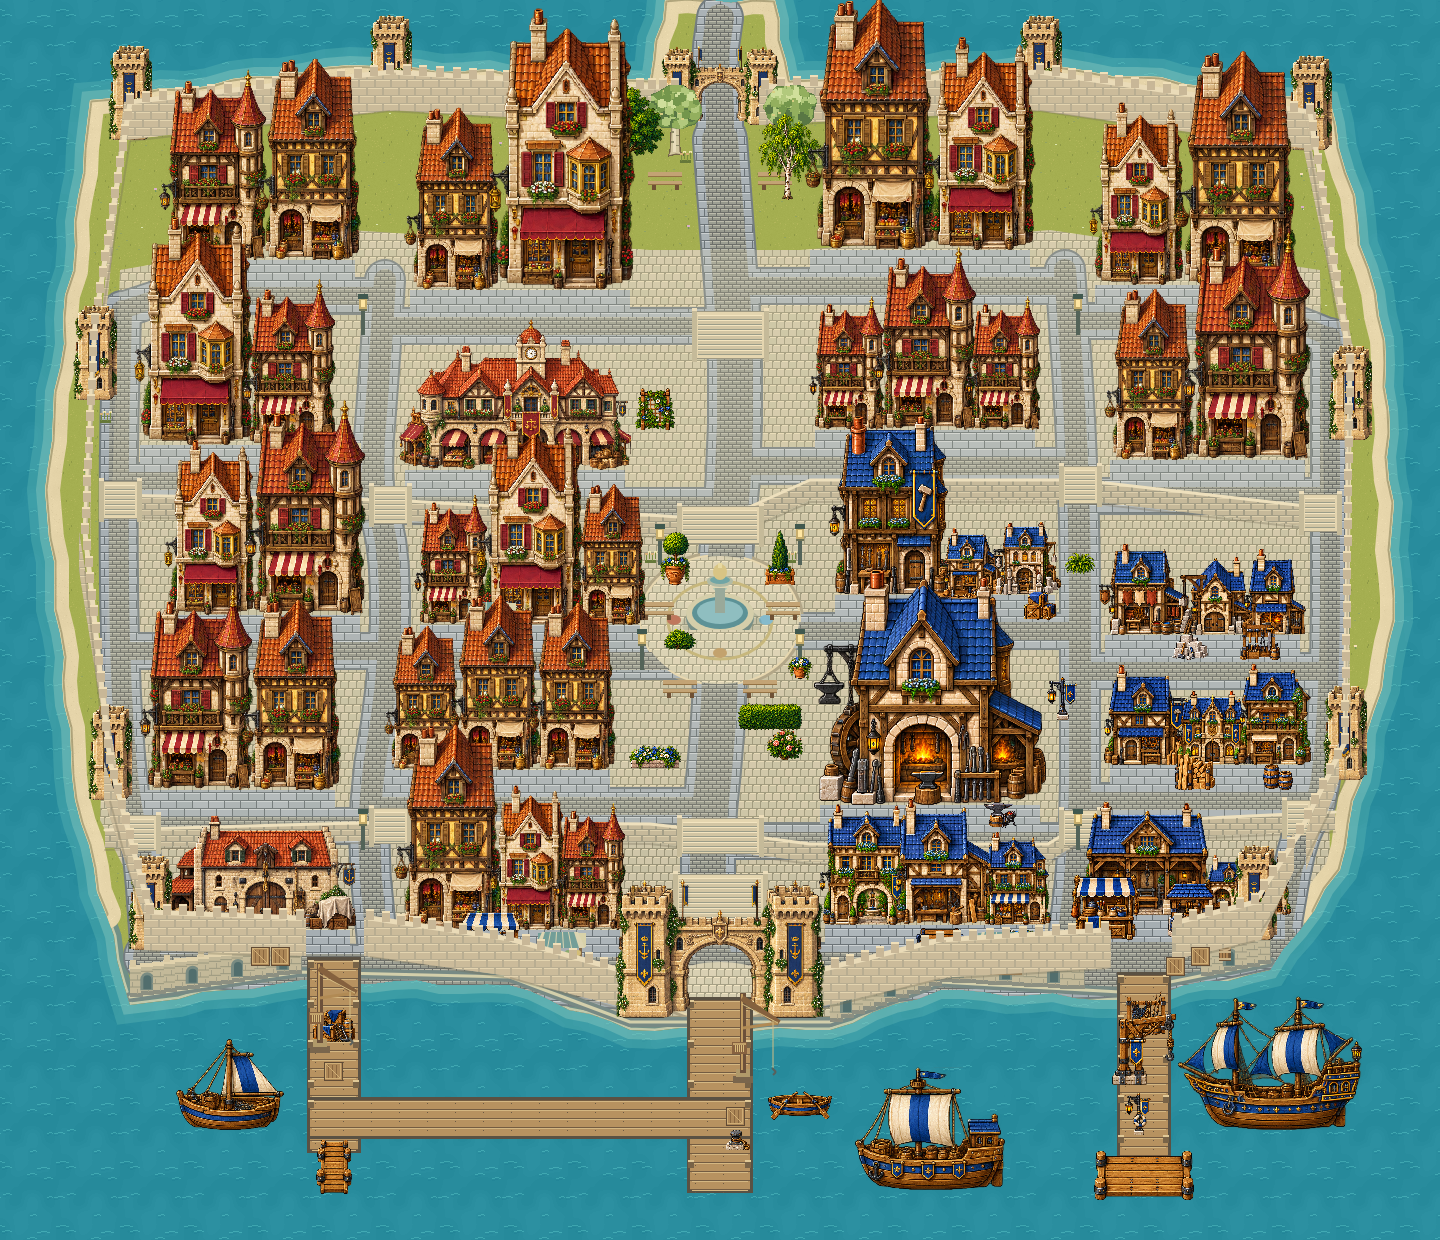
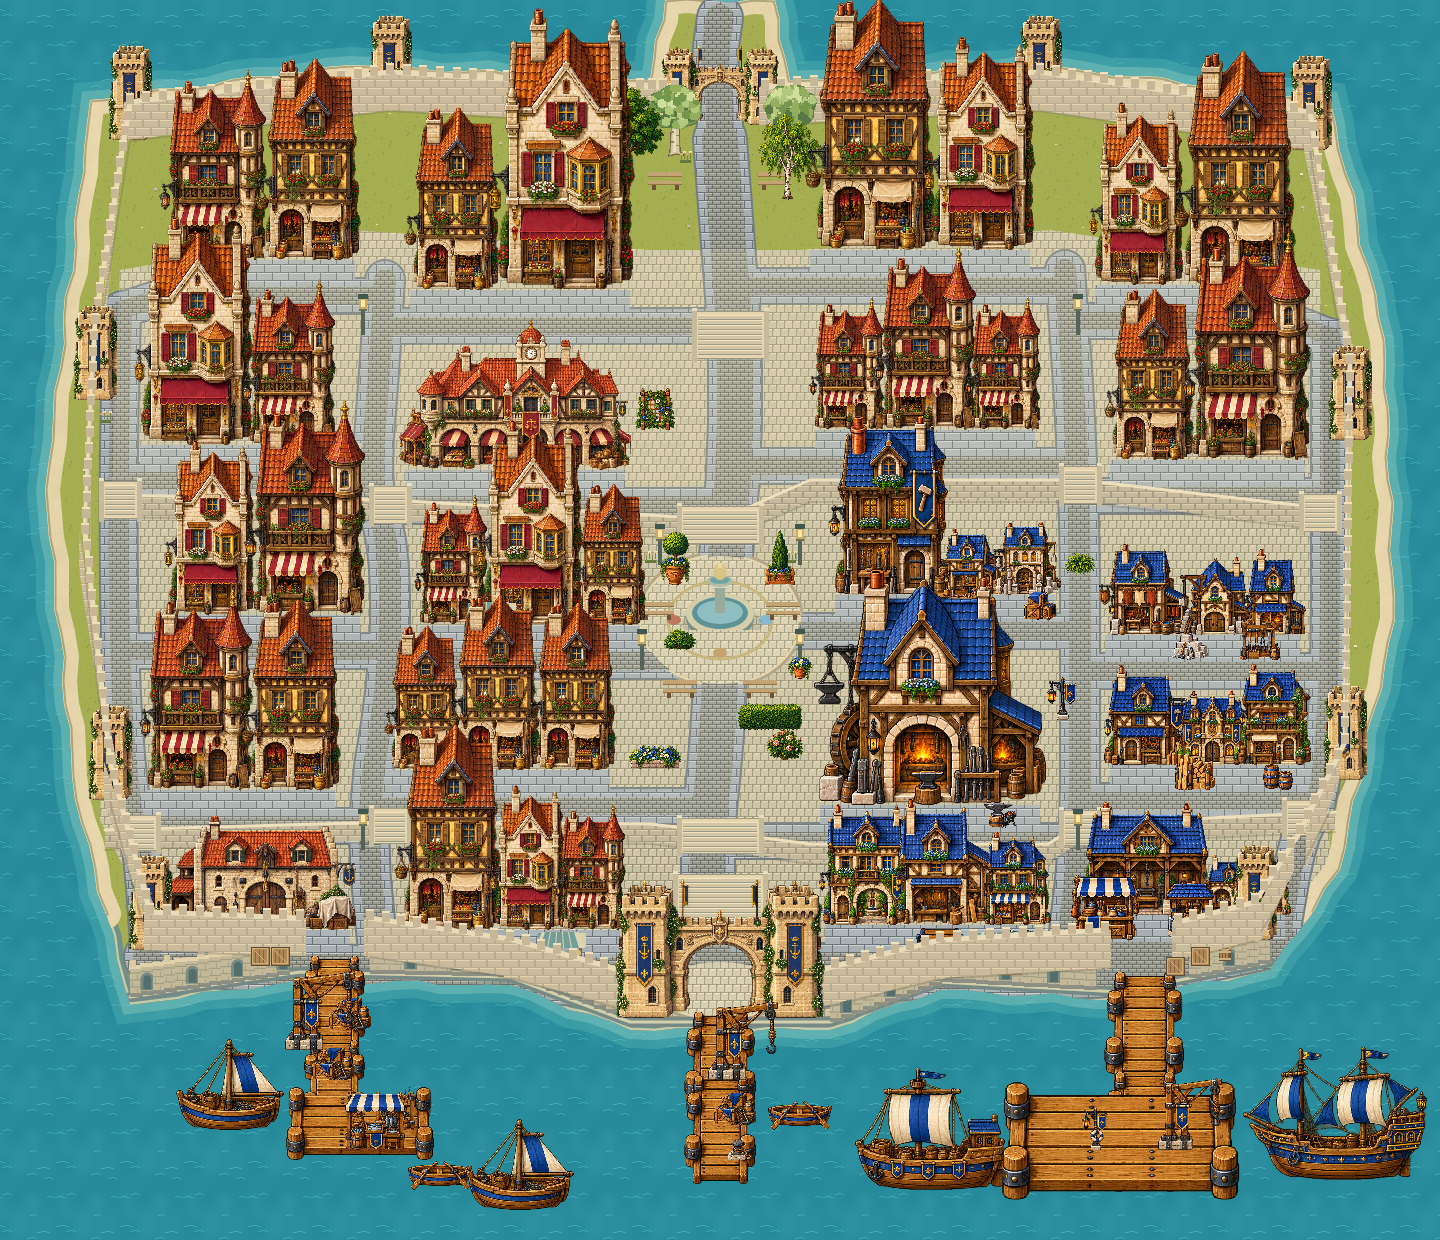
Rebuild harbor with detailed pier assets, six boats and a waterfront-only editor preset

Changed region(s): [[0.1875, 0.7661, 0.5938, 0.9806], [0.6875, 0.7661, 1.0, 0.9806], [0.3125, 0.7355, 0.375, 0.7661]]

diff --git a/src/ui/map-editor.js b/src/ui/map-editor.js
@@ -1,5 +1,6 @@
 import {
   captureMap,
+  rebuildPort,
   BUILDING_SERVICES,
   setBuildingService,
   resizeBuilding,
@@ -28,7 +29,7 @@ export function openMapEditor(game, onClose = () => {}) {
   dialog.innerHTML = `<header><strong>Éditeur · Comptoir de l’Exil</strong><button data-edit="close">Fermer</button></header>
   <div class="map-editor-tools"><button data-mode="select">Sélection</button><button data-mode="place">Placer</button><button data-mode="resize">Taille</button><button data-mode="road">Route</button><button data-mode="sidewalk">Trottoir</button><button data-mode="pan">Déplacer la vue</button><button data-edit="undo">Annuler</button><button data-edit="redo">Rétablir</button><label><input type="checkbox" data-grid checked> Grille 4 px</label><label><input type="checkbox" data-collision> Collisions</label><button data-edit="fit">Vue entière</button></div>
   <div class="map-editor-body"><aside><label>Palette<select data-palette></select></label><label>Éléments<select data-elements size="9"></select></label><div class="map-editor-fields"><label>X <input data-x type="number" step="1"></label><label>Y <input data-y type="number" step="1"></label><label>Largeur <input data-width type="number" min="4" max="80"></label></div><label>Service<select data-service><option value="">Aucun</option></select></label><p>Un emplacement par service. Glissez les coins bleus pour régler la taille.</p><button data-edit="duplicate">Dupliquer</button><button data-edit="delete">Supprimer</button><button data-edit="point-add">Ajouter un point</button><button data-edit="point-delete">Retirer le point</button><button data-edit="finish">Terminer le tracé</button><p>Glissez un objet ou un point. Molette : zoom. Outil Vue : panoramique. Les portes, tours et la fontaine sont verrouillées.</p><p>En mode Route ou Trottoir, cliquez pour tracer puis « Terminer ». Sélectionnez un tracé dans la liste pour le modifier.</p></aside><canvas class="map-editor-map" tabindex="0" aria-label="Carte éditable du Comptoir"></canvas><aside class="map-editor-palette" aria-label="Palette de décors"><strong>Décors à placer</strong><p>Glissez pour placer une fois. Cliquez pour placer plusieurs fois ; recliquez pour désélectionner.</p><label>Catégorie<select data-palette-category><option value="all">Tout</option><option value="houses">Bâtiments</option><option value="nature">Végétation</option><option value="props">Objets</option><option value="blue-props">Décors du quartier bleu</option><option value="harbor">Port et bateaux</option></select></label><div class="map-editor-tiles"></div></aside></div>
-  <footer><button data-edit="save">Appliquer et sauvegarder</button><button data-edit="export">Exporter JSON</button><label class="map-editor-import">Importer JSON<input data-import type="file" accept=".json,application/json"></label><button data-edit="reset">Carte d’origine</button><span role="status">Modifications locales, indépendantes de la sauvegarde du personnage.</span></footer>`;
+  <footer><button data-edit="save">Appliquer et sauvegarder</button><button data-edit="export">Exporter JSON</button><label class="map-editor-import">Importer JSON<input data-import type="file" accept=".json,application/json"></label><button data-edit="port">Nouveau port</button><button data-edit="reset">Carte d’origine</button><span role="status">Modifications locales, indépendantes de la sauvegarde du personnage.</span></footer>`;
   document.body.append(dialog);
   dialog.showModal();
   const $ = (s) => dialog.querySelector(s),
@@ -716,6 +717,15 @@ export function openMapEditor(game, onClose = () => {}) {
           item.points.splice(pointIndex, 1);
           pointIndex = Math.max(0, pointIndex - 1);
         });
+      }
+      if (action === "port") {
+        change(() => {
+          doc = rebuildPort(doc);
+          selected = null;
+        });
+        status(
+          "Nouveau port en brouillon. La ville est conservée ; appliquez pour sauvegarder.",
+        );
       }
       if (action === "reset")
         change(() => {

diff --git a/src/dev/map-editor-model.js b/src/dev/map-editor-model.js
@@ -4,6 +4,12 @@ import { BLUE_PROPS } from "../data/blue-props.js";
 import { ARTISAN_BUILDINGS } from "../data/artisan-buildings.js";
 import * as world from "../world/exile-map.js";
 const copy = (value) => structuredClone(value);
+const legacyPortDocks = [
+  { x: 690, y: 1000, w: 60, h: 190, legacy: true },
+  { x: 310, y: 960, w: 48, h: 190, legacy: true },
+  { x: 1120, y: 975, w: 48, h: 185, legacy: true },
+  { x: 310, y: 1100, w: 440, h: 36, legacy: true },
+];
 const originalDocks = copy(world.DOCKS.filter((d) => !d.editor));
 const originalProps = copy(world.PROPS).map((p) =>
   p.kind === "exile-house"
@@ -98,6 +104,8 @@ export let mapRevision = 0;
 export function captureMap() {
   return {
     schema: 1,
+    portLayout: 2,
+    legacyDocks: world.DOCKS.some((d) => d.legacy === true),
     zone: "exile",
     objects: world.PROPS.map((p) => ({
       id: p.id,
@@ -113,6 +121,29 @@ export function captureMap() {
   };
 }
 export const defaultMap = captureMap();
+// Replace just the waterfront, so a saved custom city does not need a full reset.
+export function rebuildPort(doc) {
+  const isPort = (item) => {
+    const p = templates.get(item.template);
+    return (
+      item.id.startsWith("comptoir-port-") ||
+      (item.y >= 950 && p?.collection === "harbor")
+    );
+  };
+  const kept = copy(doc.objects.filter((p) => !isPort(p))),
+    ids = new Set(kept.map((p) => p.id));
+  const replacements = copy(defaultMap.objects.filter(isPort));
+  for (const item of replacements) {
+    if (ids.has(item.id)) item.id = `comptoir-port-preset-${item.id}`;
+    ids.add(item.id);
+  }
+  return {
+    ...copy(doc),
+    portLayout: 2,
+    legacyDocks: false,
+    objects: [...kept, ...replacements],
+  };
+}
 // A first click is a provisional anchor, not a usable road. Never persist it.
 export function finishMapTraces(doc) {
   const completed = copy(doc);
@@ -208,9 +239,13 @@ export function validateDocument(doc) {
   }
   return doc;
 }
-function docksFor(props) {
+function docksFor(props, doc) {
+  const legacy =
+    doc.legacyDocks === true ||
+    (doc.portLayout === undefined &&
+      !props.some((p) => p.id === "comptoir-port-arrival-0"));
   return [
-    ...copy(originalDocks),
+    ...copy(legacy ? legacyPortDocks : originalDocks),
     ...props
       .filter((p) => p.walkSurface)
       .map((p) => ({
@@ -253,7 +288,7 @@ export function previewMap(doc) {
   return {
     ...world,
     PROPS: props,
-    DOCKS: docksFor(props),
+    DOCKS: docksFor(props, doc),
     BUILDINGS: props.filter((p) => p.kind === "exile-house"),
     ROADS: doc.roads,
     SIDEWALKS: doc.sidewalks,

diff --git a/src/world/exile-map.js b/src/world/exile-map.js
@@ -2,6 +2,7 @@ import {
   cityAsset,
   dressArtisanDistrict,
   comptoirDecor,
+  portWalkways,
 } from "./comptoir-dressing.js";
 // Authored compact blocks. Building dimensions remain at character scale;
 // density comes from plot placement and street widths, never sprite scaling.
@@ -63,17 +64,14 @@ export const LAND = shore.flatMap((a, i) => {
     ];
   });
 });
-export const DOCKS = [
-  { x: 690, y: 1000, w: 60, h: 190 },
-  { x: 310, y: 960, w: 48, h: 190 },
-  { x: 1120, y: 975, w: 48, h: 185 },
-  { x: 310, y: 1100, w: 440, h: 36 },
-];
+export const DOCKS = [];
 export const SHIPS = [
-  cityAsset("harbor-rowboat", 800, 1120, "comptoir-barque"),
+  cityAsset("harbor-rowboat", 440, 1190, "comptoir-barque"),
   cityAsset("harbor-fishing-boat", 230, 1130, "comptoir-voilier"),
   cityAsset("harbor-merchant-cog", 930, 1190, "comptoir-cogue"),
-  cityAsset("harbor-caravel", 1270, 1130, "comptoir-caravelle"),
+  cityAsset("harbor-caravel", 1335, 1180, "comptoir-caravelle"),
+  cityAsset("harbor-fishing-boat", 520, 1210, "comptoir-voilier-cotier"),
+  cityAsset("harbor-rowboat", 800, 1130, "comptoir-barque-arrivee"),
 ];
 export const QUAY_EDGE = [
   [130, 997],
@@ -550,6 +548,24 @@ for (const [x, y] of [
     onDock: true,
     footprint: { type: "box", left: -9, right: 9, top: -16, bottom: 0 },
   });
+for (const p of STREET_PROPS) {
+  if (p.id.startsWith("grue-"))
+    Object.assign(p, {
+      kind: "exile-prop",
+      asset: "harbor-crane",
+      w: 70,
+      h: 79,
+      collection: "harbor",
+    });
+  if (p.id.startsWith("cargaison-"))
+    Object.assign(p, {
+      kind: "exile-prop",
+      asset: "harbor-cargo",
+      w: 42,
+      h: 32,
+      collection: "harbor",
+    });
+}
 export const RAMPARTS = [
   [
     [130, 140],
@@ -753,6 +769,7 @@ export const PROPS = [
   ...STREET_PROPS,
   ...trees,
   ...comptoirDecor(),
+  ...portWalkways(),
   ...SHIPS,
 ];
 for (const p of PROPS.filter((p) => p.walkSurface)) {
@@ -837,8 +854,10 @@ export function validateExileMap() {
       );
   for (const p of PROPS.filter((p) => p.walkSurface))
     if (
-      SOLIDS.some((other) =>
-        footprintsOverlap({ ...p, footprint: p.walkSurface }, other),
+      SOLIDS.some(
+        (other) =>
+          !other.onDock &&
+          footprintsOverlap({ ...p, footprint: p.walkSurface }, other),
       )
     )
       errors.push(`${p.id}: ponton obstrué`);

diff --git a/src/world/comptoir-dressing.js b/src/world/comptoir-dressing.js
@@ -52,18 +52,53 @@ export function comptoirDecor() {
     ["greenery-flowerpot", 800, 680],
     ["greenery-fern", 1080, 575],
     ["greenery-grasses", 748, 85],
-    ["harbor-pier-vertical", 334, 1194],
-    ["harbor-pier-horizontal", 1144, 1200],
-    ["harbor-bollard", 738, 1150],
-    ["harbor-cargo", 334, 1042],
-    ["harbor-fishing-rack", 1146, 1035],
-    ["harbor-crane", 1144, 1085],
-    ["harbor-lamp", 1138, 1135],
-    ["harbor-fish-stall", 490, 969],
+
+    ["harbor-bollard", 740, 1160],
+    ["harbor-cargo", 350, 1030],
+    ["harbor-fishing-rack", 395, 1130],
+    ["harbor-crane", 1190, 1150],
+    ["harbor-lamp", 1095, 1150],
+    ["harbor-fish-stall", 375, 1150],
   ].map(([template, x, y]) => {
     const p = cityAsset(template, x, y);
-    if (template === "harbor-crane")
+    if (
+      template === "harbor-crane" ||
+      template === "harbor-cargo" ||
+      template === "harbor-bollard"
+    )
       p.footprint = { type: "box", left: -10, right: 10, top: -12, bottom: 0 };
+    return p;
+  });
+}
+
+export function portWalkways() {
+  const segments = [
+    ["vertical", 720, 1120, 72, "arrival-0"],
+    ["vertical", 720, 1184, 72, "arrival-1"],
+    ["vertical", 334, 1052, 64, "fish-0"],
+    ["vertical", 334, 1136, 64, "fish-1"],
+    ["horizontal", 360, 1160, 148, "fish-head"],
+    ["vertical", 1144, 1092, 80, "cargo-0"],
+    ["vertical", 1144, 1192, 80, "cargo-1"],
+    ["horizontal", 1120, 1200, 240, "cargo-head"],
+  ];
+  return segments.map(([direction, x, y, width, key]) => {
+    const p = cityAsset(
+        `harbor-pier-${direction}`,
+        x,
+        y,
+        `comptoir-port-${key}`,
+      ),
+      factor = width / p.w;
+    p.w = width;
+    p.h = Math.round(p.h * factor);
+    p.walkSurface = {
+      type: "box",
+      left: -width / 2 + 5,
+      right: width / 2 - 5,
+      top: -p.h + 4,
+      bottom: -2,
+    };
     return p;
   });
 }

diff --git a/tests/exile.test.js b/tests/exile.test.js
@@ -315,7 +315,7 @@ test("Une ancienne position du grand Comptoir revient au port sans perte de prog
 });
 
 test("Les navires restent dans l’eau sans recouvrir un ponton", () => {
-  assert.equal(SHIPS.length, 4);
+  assert.equal(SHIPS.length, 6);
   for (const p of SHIPS) {
     assert.ok(p.asset.startsWith("harbor-"));
     assert.ok(placementOnLand(p));
@@ -525,4 +525,17 @@ test("Le Comptoir utilise tous les nouveaux modèles et ouvre son chemin royal a
   for (let y = 24; y <= 150; y += 2)
     assert.ok(canWalkExile(720, y), `porte royale y=${y}`);
   assert.deepEqual(validateExileMap(), []);
+});
+
+test("Le nouveau port utilise les pontons détaillés et garde la troupe sur le débarcadère", () => {
+  const DOCKS = PROPS.filter((p) => p.walkSurface);
+  assert.equal(DOCKS.length, 8);
+  assert.ok(DOCKS.every((p) => p.asset.startsWith("harbor-pier-")));
+  assert.equal(canWalkExile(500, 1115), false, "ancien quai supprimé");
+  const s = town();
+  movePartyToZone(s, "exile", { x: 720, y: 1080 });
+  for (let i = 0; i < 60; i++) stepSandbox(s, { x: 0, y: 1 }, 0.05);
+  for (let i = 0; i < 40; i++) stepSandbox(s, { x: 0, y: 0 }, 0.05);
+  assert.ok(s.player.y >= 1160);
+  for (const p of s.team) assert.ok(canWalkExile(p.x, p.y));
 });

diff --git a/src/rendering/exile-port-assets.js b/src/rendering/exile-port-assets.js
@@ -151,7 +151,13 @@ export function drawPortGround(g, map) {
         x = a[0] + (b[0] - a[0]) * t,
         y = a[1] + (b[1] - a[1]) * t - 4;
       if (
-        map.DOCKS.some((d) => x + 12 > d.x - 7 && x < d.x + d.w + 7) ||
+        map.DOCKS.some(
+          (d) =>
+            x + 12 > d.x - 7 &&
+            x < d.x + d.w + 7 &&
+            y >= d.y - 8 &&
+            y <= d.y + d.h + 8,
+        ) ||
         Math.abs(x - map.PORT_GATE.x) < 100
       )
         continue;

diff --git a/README.md b/README.md
@@ -558,7 +558,7 @@ Après le tutoriel, ouvrez **Monde → Comptoir → Embarquer pour le Comptoir**
 
 La ville s’étend sur **1 440 × 1 240 pixels**, avec caméra mobile, 45 bâtiments, les quinze façades d’artisans et tous les nouveaux accessoires, quartiers marchands à l’ouest et bleu au sud-est, ruelles courtes et quais à arcades, jardins, place de la fontaine, port et marché. Approchez les habitants puis utilisez **F**, ou cliquez/touchez-les. Forge, animalerie, bricolage, scierie et fontaine sont utilisables. Maëla et Oriel vendent du matériel de voyage ; Silo rachète les ressources ordinaires et rares ; l’auberge restaure la troupe contre 5 or.
 
-Des remparts crénelés, dix tours d’angle et deux portes entourent la ville. Les îlots sont décalés, les façades ont des largeurs variées et deux terrasses se franchissent par des escaliers. La porte du port, les grues de chargement, les étals et quatre navires donnent une identité maritime au Comptoir.
+Des remparts crénelés, dix tours d’angle et deux portes entourent la ville. Les îlots sont décalés, les façades ont des largeurs variées et deux terrasses se franchissent par des escaliers. La porte du port, les grues de chargement, les étals et six embarcations donnent une identité maritime au Comptoir.
 
 Le bouton **Plan du Comptoir** montre les quartiers et bonnes adresses. L’onglet **Pays des Slimes** conserve la carte illustrée de référence. Votre position dans la ville est sauvegardée. Les outils dev proposent des accès directs au port, à la place, aux artisans et aux jardins.
 
@@ -588,8 +588,14 @@ La palette inclut également **15 bâtiments du Quartier des Artisans** : forge 
 
 ### Comptoir reconstruit avec les nouveaux assets
 
-Le plan livré utilise les **51 nouveaux modèles** : 15 bâtiments bleus au sud-est, 12 accessoires d’artisans, 12 éléments de végétation et 12 assets maritimes, dont les quatre bateaux et les deux extensions de ponton. Les habitations au nord-est adoptent des façades chaudes pour distinguer le quartier résidentiel du quartier bleu. La place centrale et les accès aux dix services sont conservés. L’enceinte reste continue hors de ses portes et des accès aux pontons.
+Le plan livré utilise les **51 nouveaux modèles** : 15 bâtiments bleus au sud-est, 12 accessoires d’artisans, 12 éléments de végétation et 12 assets maritimes, dont quatre modèles de bateaux déclinés en six embarcations, et huit segments de ponton pour les trois débarcadères. Les habitations au nord-est adoptent des façades chaudes pour distinguer le quartier résidentiel du quartier bleu. La place centrale et les accès aux dix services sont conservés. L’enceinte reste continue hors de ses portes et des accès aux pontons.
 
 Au nord, une nouvelle route franchit la porte et rejoint le départ vers le sanctuaire du Roi Slime. La destination est signalée mais la future zone n’est pas encore ouverte. **Développement → Outils dev → Voyages → Comptoir · Porte du Roi** permet de vérifier ce départ.
 
 Si une ancienne carte personnalisée est chargée dans votre navigateur, elle reste prioritaire. Pour adopter ce nouveau plan, exportez votre carte si vous souhaitez la conserver, puis utilisez **Éditeur → Carte d’origine → Appliquer et sauvegarder**. La progression du personnage reste indépendante.
+
+### Nouveau port détaillé
+
+Le port est reconstruit entièrement avec les assets maritimes : débarcadère central d’arrivée, quai de pêche à l’ouest et plateforme de chargement à l’est. Huit segments de ponton détaillés remplacent les anciens planchers procéduraux ; grues, cargaisons, filets, cordages, éclairage et poissonnerie occupent les quais. Six embarcations restent dans l’eau : deux barques, deux voiliers de pêche, une cogue et une caravelle.
+
+Pour intégrer seulement ce port à une carte locale personnalisée : **Éditeur → Nouveau port → Appliquer et sauvegarder**. Le reste de la ville et ses rues sont conservés ; l’opération peut être annulée dans le brouillon. Les anciens fichiers de carte gardent leurs quais d’origine jusqu’à cette reconstruction, avec conservation de la progression du personnage.

diff --git a/docs/world/PAYS_DES_SLIMES.md b/docs/world/PAYS_DES_SLIMES.md
@@ -29,7 +29,7 @@ Les canaux, fortifications, routes et ateliers témoignent d’abord de la const
 
 Carte extérieure de 1 440 × 1 240 pixels monde, avec caméra à l’échelle des personnages. 45 bâtiments : façades mitoyennes, halle marchande, forge, entrepôt, capitainerie, auberge et services pour les aventuriers. Le port reste au sud du pays, avec la place du Refuge et la route du sanctuaire dans son axe central.
 
-- **Sud :** trois pontons, liaison entre quais, quatre navires, grues de chargement, porte du Refuge et quais de pierre à arcades.
+- **Sud :** trois pontons, liaison entre quais, six embarcations, grues de chargement, porte du Refuge et quais de pierre à arcades.
 - **Centre :** place du Refuge, fontaine du renouveau, mosaïque aux quatre couleurs et commerces.
 - **Ouest :** quartier des marchands, halle marchande, enchanteur, échoppe et animalerie.
 - **Sud-est :** quartier bleu des artisans, avec quinze nouveaux bâtiments, la forge, l’atelier de Tessa, la scierie et la capitainerie.
@@ -61,4 +61,4 @@ Le port, la terrasse intermédiaire et la ville haute forment trois paliers. Les
 Les vingt fronts bâtis ont désormais des retraits, des largeurs de lots et des alignements propres. Les rues sont retracées entre eux. Les habitants se tiennent sur un espace d’approche libre devant leurs commerces et les promeneurs démarrent uniquement sur un point de rue praticable.
 
 
-La disposition utilise désormais tous les nouveaux modèles de bâtiments, accessoires, verdure et port. Les quatre navires sont des sprites détaillés et les deux extensions de ponton sont praticables. Le chemin royal traverse la porte nord et rejoint une avancée de terre réservée au futur raccord avec le sanctuaire. Ce raccord n’ouvre pas encore la zone du Roi Slime et ne modifie pas son histoire ni les conditions de son réveil.
+La disposition utilise désormais tous les nouveaux modèles de bâtiments, accessoires, verdure et port. Les six embarcations sont des sprites détaillés et les trois débarcadères sont composés de huit segments praticables. Le chemin royal traverse la porte nord et rejoint une avancée de terre réservée au futur raccord avec le sanctuaire. Ce raccord n’ouvre pas encore la zone du Roi Slime et ne modifie pas son histoire ni les conditions de son réveil.
